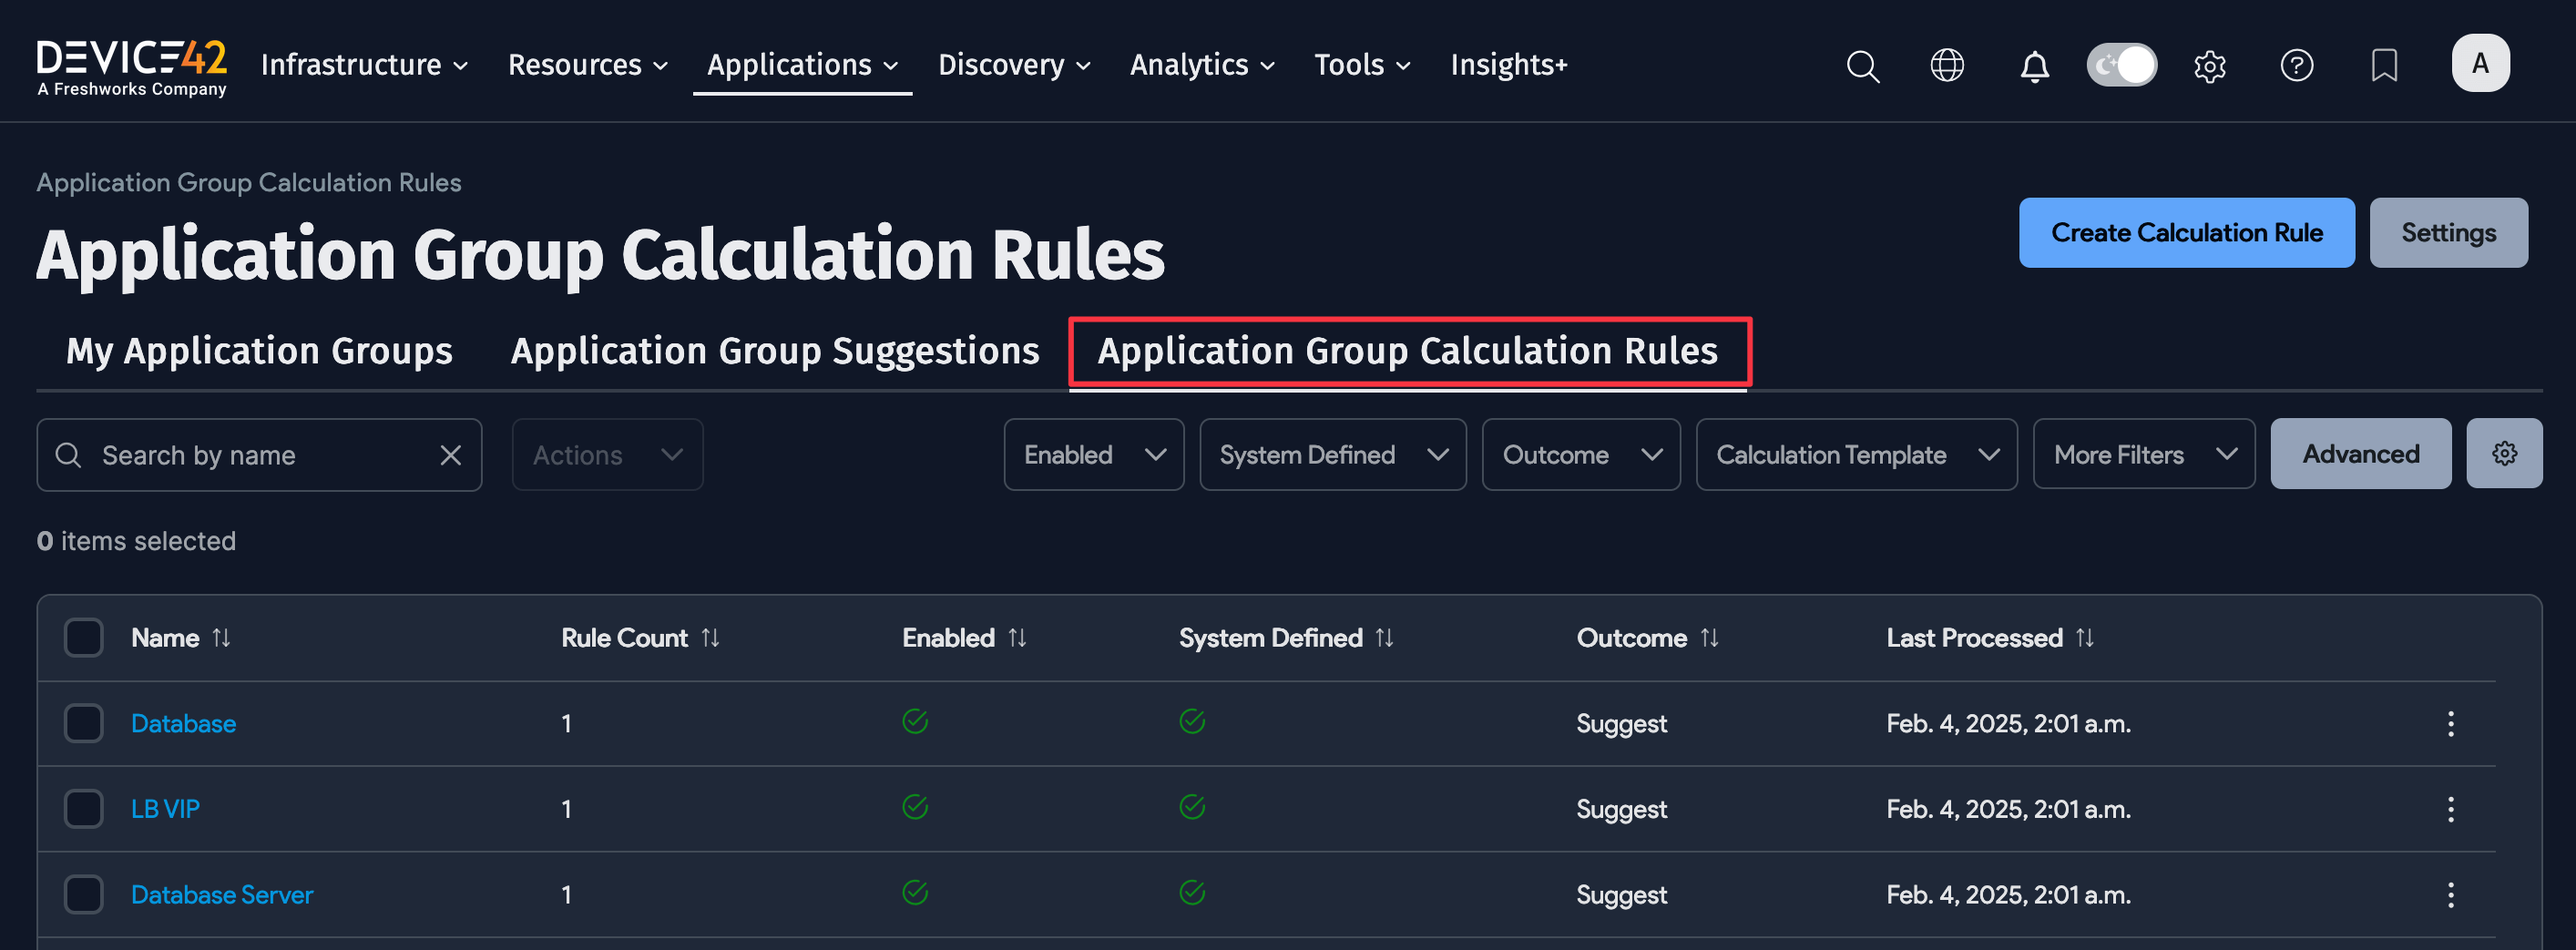
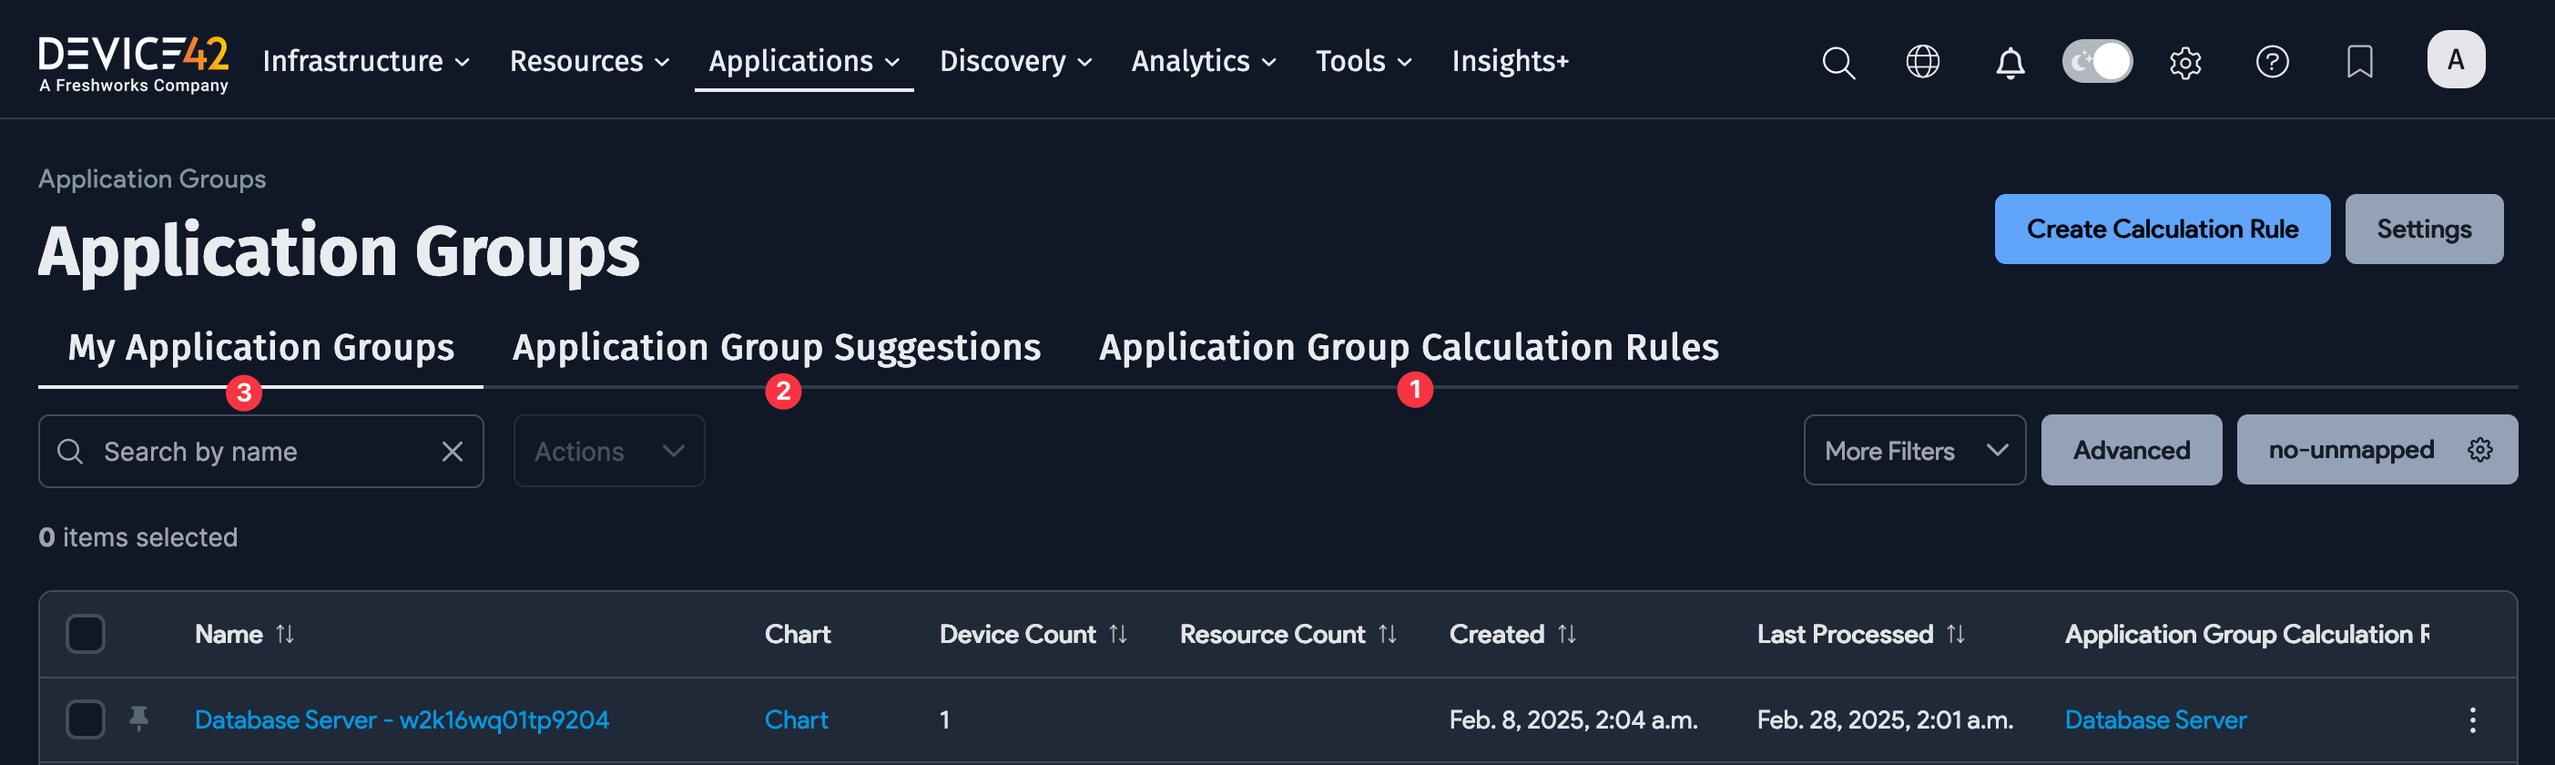
722: expand intro, refine explanations, improve screenshots, calculation-rules

diff --git a/docs/apps/application-groups/calculation-rules.md b/docs/apps/application-groups/calculation-rules.md
@@ -6,17 +6,31 @@ sidebar_position: 1
 import ThemedImage from '@theme/ThemedImage'
 import useBaseUrl from '@docusaurus/useBaseUrl'
 
-# Overview of Application Group Calculation Rules
-
 :::note
-*Affinity Groups* have been renamed to **Application Groups**. *AppFocus Filters* are now called **Application Group Calculation Rules**.
+In 19.05, AppFocus Filters have been renamed to **Application Group Calculation Rules** and AppFocus Groups are now called **Application Groups**. 
 :::
 
-Application Group Calculation Rules are starting points or 'seeds' that point to what's important in your environment and are used to indirectly configure the resulting Application Groups. The Application Dependency Mapping (ADM) workflow starts by defining Starting Points, then setting traversal rules and stop points (logic templates) to generate the Application Groups charts.
+# The Revised ADM Workflow
+
+In 19.05, we updated our Application Dependency Mapping (ADM) workflow to make it easier to create and manage Application Groups, and ultimately, Business Services (previously known as Business Applications).
+
+The [Application Dependency Mapping (ADM) workflow](/apps/enterprise-application-dependency-mapping) starts by defining starting points and setting traversal rules and stop points (using logic templates) to generate Application Groups. Use Application Groups (along with Application Components, resources, and devices) to build a complete and focused picture of your IT environment as a business service.
 
 ![ADM Workflow](/assets/images/calculation-rules/adm-flow.png)
 
-Choose Starting Points based on what you want the resulting Application Group to focus on, such as a service, database, or Saturn application. The Starting Point(s) you choose will be the Application Group's focus. For example:
+When defining rules, you can elect to immediately create the groups on processing, or opt to make suggestions that you can accept or ignore. Device42 suggests Application Groups based on Application Components – you can accept or ignore these suggestions, too.
+
+You can optionally use Device42's predefined rules, which are based on common use cases. You can disable these rules or change their outcomes, but they are maintained by Device42 and cannot be edited.
+
+## What are Calculation Rules?
+
+Calculation Rules give you flexibility and control to define how you want to generate Application Groups that accurately represent important communication groups in your environment. If you're not sure where to start, you can use one of our predefined rules to quickly create Application Groups based on common use cases.
+
+Choose Starting Points based on what you want the resulting Application Group to focus on, such as a service, database, or Saturn application, for example. You can set fixed starting points with known items or dynamically find items based on search criteria you define using object types (Application Components, Devices, and Service Instances) or even tags.
+
+The Calculation Rule form contains starting points, that you can think of as 'seeds' highlighting what's important that indicates to Device42 what to consider as dependencies. 
+
+The Starting Point(s) you choose will be visible in the AppFocus container in the chart. For example:
 
 <ThemedImage
   alt="Docusaurus themed image"
@@ -26,15 +40,15 @@ Choose Starting Points based on what you want the resulting Application Group to
   }}
 />
 
-In addition to creating new rules, you can use Device42's predefined rules, **Database**, **LB VIP**, and **Database Server**, which are based on common use cases. You can disable these rules or change their outcomes, but they are maintained by Device42 and cannot be edited.
+## The Application Group List Page
 
-## Using **Calculation Rules**
+Navigate to **Applications > Application Groups** from the main menu. 
 
-Access the **Application Calculation Rules** page under **Applications > Application Groups** in the main menu. The **Application Calculation Rules** page has three tabs:
+You can think of the three tabs listed below as a potential workflow option for creating Application Groups: 
 
-- **My Application Groups**: The Application Groups that you want to use.
-- **Application Group Suggestions:** A list of suggested Application Groups based on the Calculation Rules.
-- **Application Group Calculation Rules:** A list of user-created and predefined Calculation Rules.
+1. **Application Group Calculation Rules**: Configure new Calculation Rules or run predefined rules. 
+2. **Application Group Suggestions**: Review the suggested Application Groups. The list of suggestions are created by Calculation Rules that have the outcome set to **Suggest**. Suggestions are  also automatically generated by Application Components.
+3. **My Application Groups**: Process the accepted Application Groups. Application Groups are generated based on Calculation Rules with the outcome set to **Auto-Create**. View charts of group dependencies and use the groups as components to build [Business Services](/apps/business-services). 
 
 <ThemedImage
   alt="Docusaurus themed image"
@@ -44,7 +58,7 @@ Access the **Application Calculation Rules** page under **Applications > Applica
   }}
 />
 
-### Predefined **Calculation Rules**
+### Predefined Calculation Rules
 
 There are three predefined Calculation Rules: Database, LB VIP, and Database Server. These rules are designed to help you quickly create Application Groups based on common use cases.
 
@@ -62,7 +76,7 @@ To use the predefined rules, select one and click **Process Now**.
   }} 
 />
 
-## Create a New **Calculation Rule**
+## Create a New Calculation Rule
 
 Under the **Application Group Calculation Rules** tab, click the **Create** button to access the New Application Filter page and fill in the **Name**.
 
@@ -78,29 +92,49 @@ Choose the **Outcome** of the Application Group that will be created based on th
     }}
   />
 
-### **Starting Points**
+### Starting Points: Criteria
 
-Select a Starting Point that's as close to the application as you can define it. You can think of the Starting Point as an indication of what's important. This could be a service, database, or Saturn application. It's a good idea to tag applications that are central to your environment and use the tags as Starting Points for creating Application Groups.
+Select a Starting Point that's as close to the application as you can define it. You can think of the Starting Point as an indication of what's important. This could be a service, database, or Saturn application, for example. You can select specific fixed items or define search criteria to find for matching items.
+
+It's a good idea to tag applications that are central to your environment, then add a filter to include those tagged items as a Starting Point.
 
 Under **Starting Points** you'll see two options: **Criteria** and **Fixed**.
 
-- Select **Criteria** to search for and choose a CI from your database to serve as an example for the Application Group you want to create. You can add multiple items and toggle on the **Required** options for all or some of the items to ensure they are included in the dependency mapping.
+- Select **Criteria** to define types and categories of items to be included for the group's starting points. For example, you could define broad criteria to include physical devices.
 
-  - Select an **Object Type**.
+  - Select an **Object Type** and apply filters to the object type to narrow down the criteria. 
             
     <ThemedImage
       alt="Docusaurus themed image"
       sources={{
-        light: useBaseUrl('/assets/images/calculation-rules/10.92.11.208_admin_core_application_group_calc_rule_light.png'),
-        dark: useBaseUrl('/assets/images/calculation-rules/10.92.11.208_admin_core_application_group_calc_rule_dark.png'),
+        light: useBaseUrl('/assets/images/calculation-rules/search-criteria-light.png'),
+        dark: useBaseUrl('/assets/images/calculation-rules/search-criteria-dark.png'),
       }}
     />
 
-  - You can add a **Tags** filter and provide part of the tag's name under the **Contains** text box.
+  - You could add a **Tags** filter and apply a partial search filter for part of the tag's name by entering the name fragment to the **Contains** text box. For example, apply a filter for devices that include `App_` in the name.
 
-    ![Search by tag](/assets/images/calculation-rules/new-rule-starting-points-criteria-2.png)
+    <ThemedImage
+      alt="Docusaurus themed image"
+      sources={{
+        light: useBaseUrl('/assets/images/calculation-rules/tag-search-criteria-light.png'),
+        dark: useBaseUrl('/assets/images/calculation-rules/tag-search-criteria-dark.png'),
+      }}
+    />
 
-- Select **Fixed** to use specific items as definitive Starting Points rather than electing items of a similar type (criteria). Select an **Object Type** to search the database for the item you want to use as a Starting Point.
+- Add multiple criteria and designate at least one of the criteria as **Required** to ensure that matching items are included in the dependency mapping.
+
+    <ThemedImage
+      alt="Docusaurus themed image"
+      sources={{
+        light: useBaseUrl('/assets/images/calculation-rules/required-light.png'),
+        dark: useBaseUrl('/assets/images/calculation-rules/required-dark.png'),
+      }}
+    />
+
+### Starting Points: Fixed
+  
+Select **Fixed** to include specific items as definitive Starting Points rather than electing items of a similar type (criteria). Use the object type search boxes to find and enter the item(s) you want to use as the Starting Point.
 
   <ThemedImage
     alt="Docusaurus themed image"
@@ -111,7 +145,7 @@ Under **Starting Points** you'll see two options: **Criteria** and **Fixed**.
     style={{ width: '35%' }} 
   />
 
-### **Group By** and **Tags LIKE** Options
+### Group By and Tags LIKE Options
 
 The **Group By** field is required if you choose the **Criteria** option for the Starting Point. The **Group By** criteria creates multiple Application Groups from one rule.
 
@@ -125,15 +159,23 @@ Use the `%` wildcard in the **Tags LIKE** field to find items that match part of
   }}
 />
 
-### **Calculation Logic Templates** 
+### Calculation Logic Templates
 
-After you've selected the Starting Points, we need to know how you want to define and calculate the dependencies and determine what is and is not considered in the Application Group.
+Calculation Logic Templates set the traversal logic of the Calculation Rule. Device42 needs to know how you want to define and calculate the dependencies and determine what is and is not considered in the group. You can use the default Device42 template or create a new template.
 
 The **Calculation Logic Template** allows you to add multiple rules and conditions to groups in a user-friendly interface. You can create templates that target different parts of your environment, such as active traffic or Active Directory, or a template that does both.
 
-Under **Applications > Application Groups**, click the **Settings** button and select **Create Calculation Logic Template**. 
+Add a new logic template from the Calculation Rule add or edit form or go to **Applications > Application Groups**, click the **Settings** button, and select **Create Calculation Logic Template**. 
 
 We recommended you select the **Form** format from the dropdown, but we've added the **DOQL** format option for backwards compatibility.
+
+  <ThemedImage
+    alt="Docusaurus themed image"
+    sources={{
+      light: useBaseUrl('/assets/images/calculation-rules/form-logic-template-light.png'),
+      dark: useBaseUrl('/assets/images/calculation-rules/form-logic-template-dark.png'),
+    }}
+  />
 
 Fill in the fields:
 
@@ -147,7 +189,7 @@ Fill in the fields:
 - **Include**: Include the selected items to the exclusion of everything else. You can generally leave this option blank unless you have a specific reason to limit the calculation to specific items. For example, you can choose to only include devices that are in production in the calculation. 
 - **Exclude**: Select categories that don't make sense to include. For example, you can exclude IPv6 traffic or port 22.
 
-### **Visualization** Options
+### Visualization Options
 
 The **Visualization** option determines the default chart depth rendered, which is useful for large environments where you want to limit the number of levels of dependencies shown in the visualization.
 
@@ -166,11 +208,9 @@ Toggle on the **Store and Display Connection Metadata** option to display commun
 
   ![Connection Metadata](/assets/images/calculation-rules/viz-metadata.png)
 
-## Running **Calculation Rules**  
+## Running Calculation Rules  
 
-**Enabled** Calculation Rules are processed nightly at 2 AM. 
-
-Run one or many Calculation Rules to generate Application Groups and Suggestions. 
+Run one or many Calculation Rules to generate Application Groups and Suggestions at any time. **Enabled** Calculation Rules are also processed nightly at 2 AM. 
 
 - Click the **Process Now** button at the top-right of a saved Calculation Rule to run it immediately.
 
@@ -189,13 +229,14 @@ Run one or many Calculation Rules to generate Application Groups and Suggestions
     sources={{
       light: useBaseUrl('/assets/images/calculation-rules/run-background-processing-light.png'),
       dark: useBaseUrl('/assets/images/calculation-rules/run-background-processing-dark.png'),
-    }}>
+    }}
+  />
 
 There are four statuses for Calculation Rules: **Processing..**, **Completed**, **Failed**, and **Warnings**. Hover over the **i** icon for more details.
 
 ![Calculation Rule Status](/assets/images/calculation-rules/calc-rule-execution-statuses.png)
 
-## Charts
+## Impact Charts
 
 Click on the **Chart** link under the **My Application Groups** tab. Click on the boxes to see details about the resource and click on the connection lines to see the dependencies and relationships between the resources.
 
